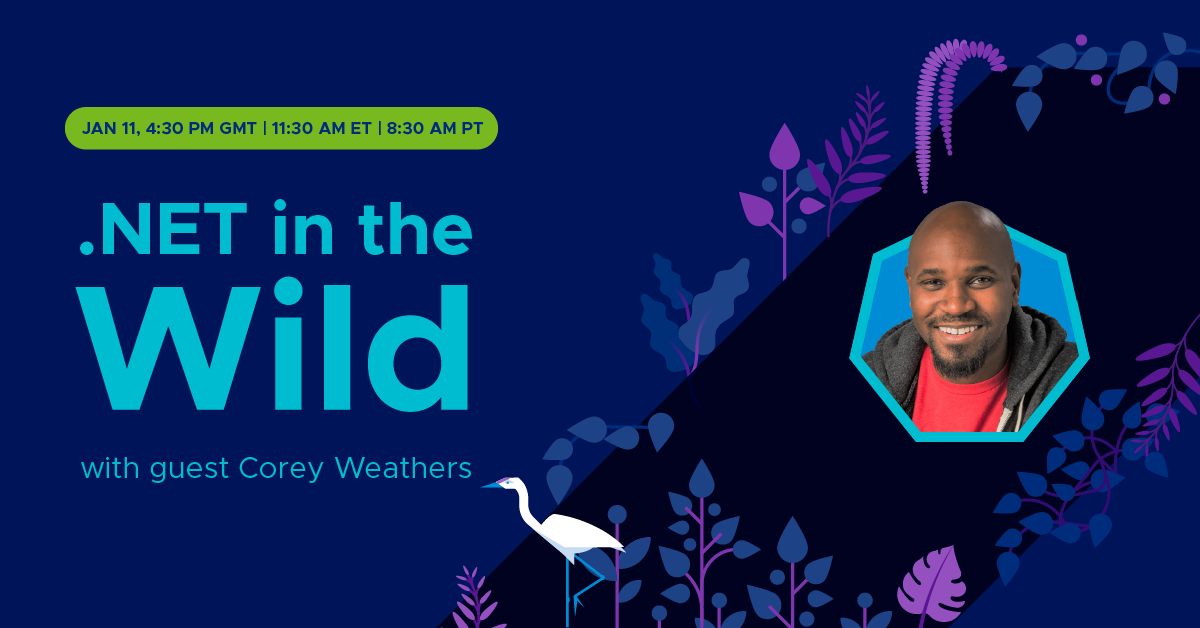
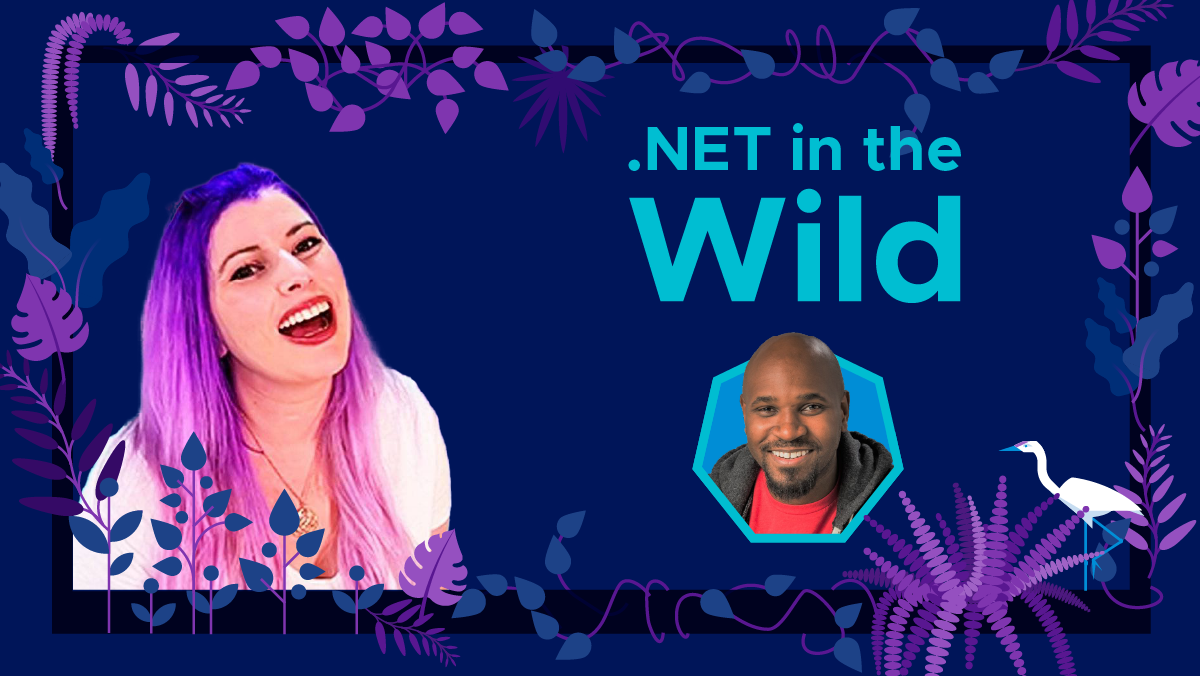
updated images and bios for upcoming .net in the wild shows (#1510)
* updated images and bios for upcoming .net in the wild shows

* updated dictionary

diff --git a/content/tv/dotnet-wild/0005/index.md b/content/tv/dotnet-wild/0005/index.md
@@ -18,6 +18,13 @@ type: tv-episode
 youtube: 
 ---
 
-Layla is joined by Corey Weathers, a Developer Evangelist at Twilio.
+Layla is joined by Corey Weathers, a Developer Evangelist at Twilio who is passionate about sharing how magical 
+software can be. Whether coding or coaching at hackathons, speaking at tech conferences & 
+meetups, or livestreaming app development on Twitch for Twilio TV, Corey uses each 
+experience to inspire and equip developers. In addition to his time at Twilio, he has worked in a 
+variety of software development roles over the past 16 years at the IRS, Microsoft and others. 
+Corey holds an MBA from the Haas School of Business at UC Berkeley, and a BS in Systems & 
+Computer Science from Howard University. While a native New Yorker at heart, he’s proud to 
+make central PA home with his family.
 
 - [Twitter](https://twitter.com/coreylweathers)
